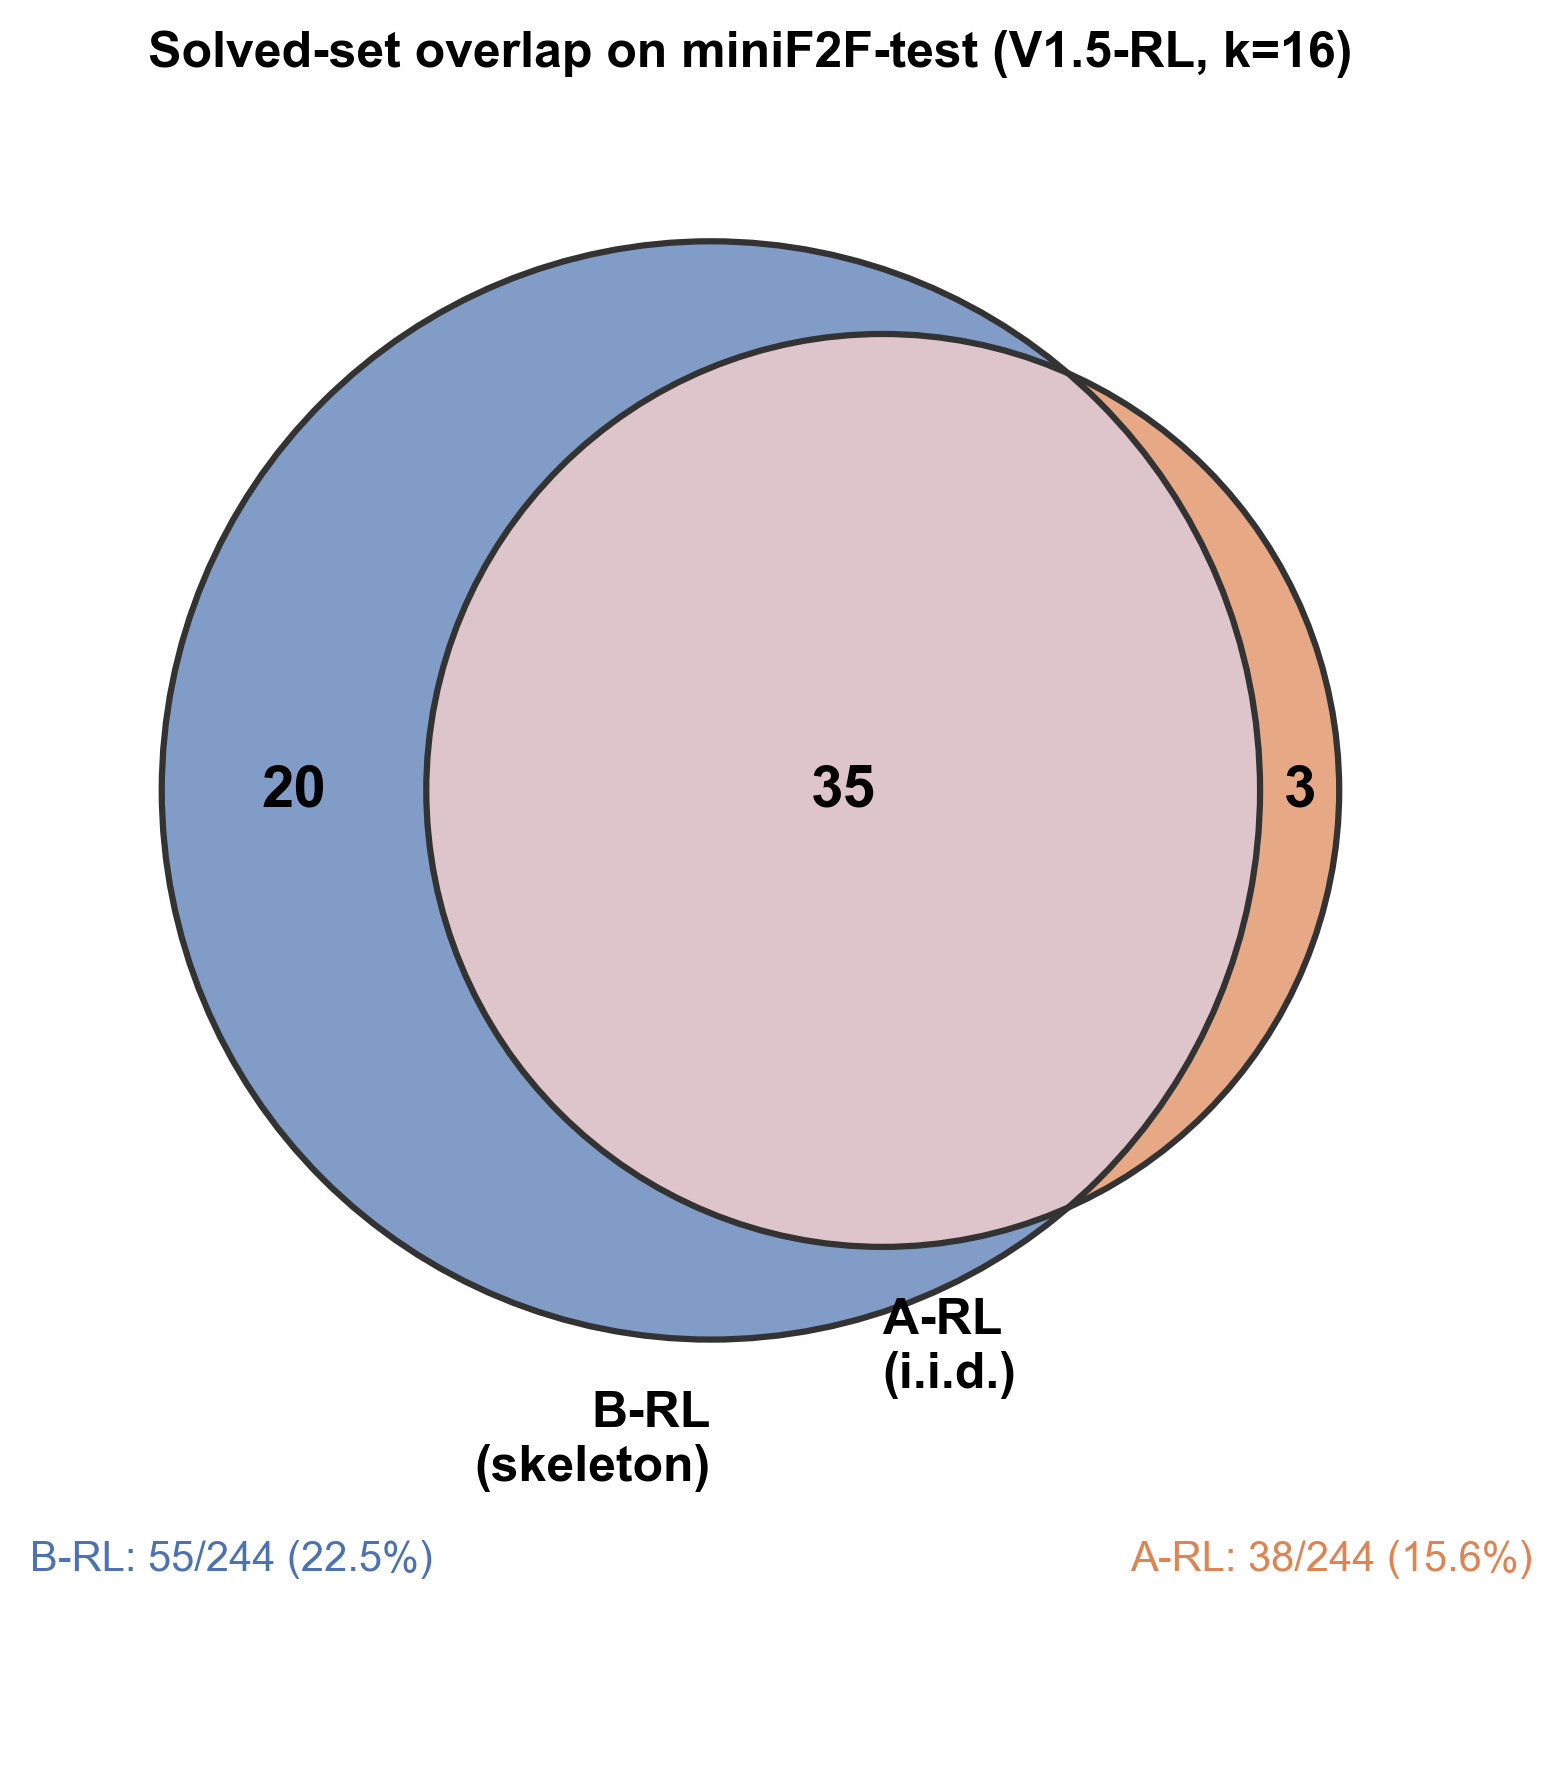
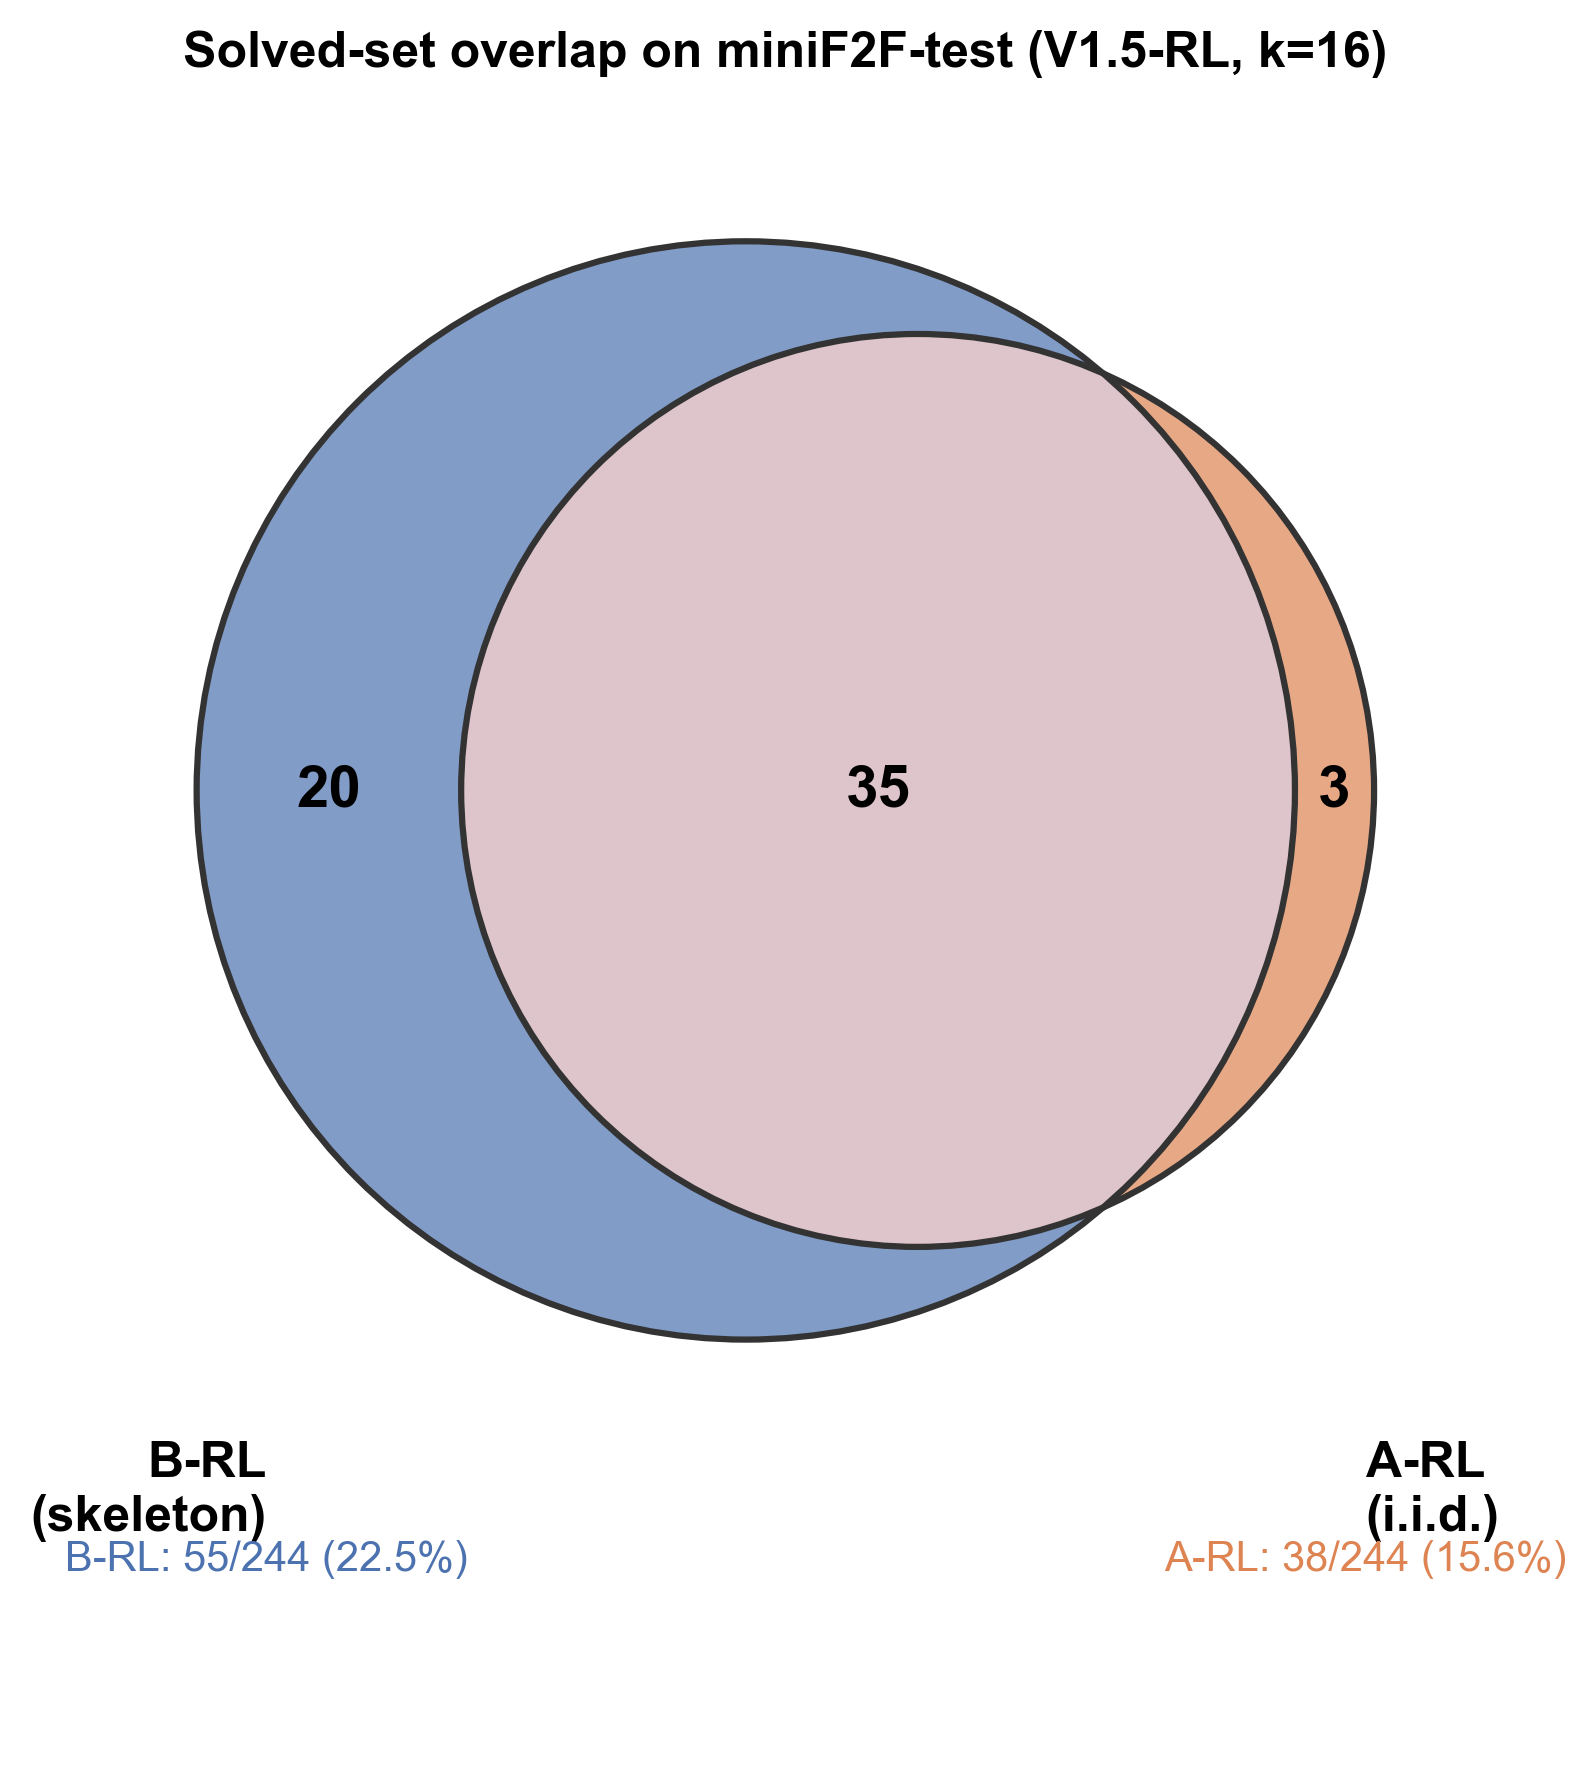
Venn: align A-RL and B-RL set labels on the same vertical level
matplotlib_venn auto-places the set labels relative to each circle's
centroid, so the bigger B-RL circle was pushing its label noticeably
lower than A-RL's. Force both to the same y-coordinate (and spread the
x apart) so the two read as a matched pair under the diagram.

diff --git a/figures/venn_diagram.py b/figures/venn_diagram.py
@@ -31,6 +31,15 @@ def create_venn_diagram(output_path: str = "venn_overlap"):
         ax=ax
     )
 
+    # Force both set labels to the same y-coordinate and spread them out
+    # horizontally. matplotlib_venn otherwise stacks them at different
+    # heights (because the circles have different radii) and clusters them
+    # near the visual centroid of each set's unique region.
+    if v.set_labels[0] is not None:
+        v.set_labels[0].set_position((-0.55, -0.65))
+    if v.set_labels[1] is not None:
+        v.set_labels[1].set_position(( 0.55, -0.65))
+
     # Add circles outline
     c = venn2_circles(
         subsets=(ONLY_STRUCTURED, ONLY_BASELINE, BOTH),